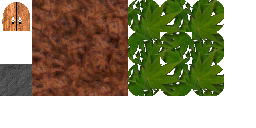
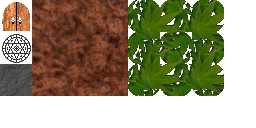
Update Room
・スタート地点の部屋には敵が入ってこないように修正。

Changed region(s): [[0.0, 0.25, 0.125, 0.5]]

diff --git a/content/asset/param/stage/Stage1.js b/content/asset/param/stage/Stage1.js
@@ -30,6 +30,8 @@ function Stage1(stageno) {
     var cmap = [];
     this.colmap = cmap;
 
+    this.startroom_id; 
+
     //rlistで各部屋にID付与
     rlist = roomDivision(rlist);
 
@@ -313,18 +315,41 @@ function Stage1(stageno) {
         let room_status = roomSizeCheck(rlist);
         let room = room_status.pos;
 
+        let sid; //startroom_id; 
+
         for (let i in room){//rlist,clist
             //天井
+            let x = (room[i].min.x - 1) * BLOCK_W;
+            let y = (room[i].min.y - 1) * BLOCK_H;
+            let wdt = (room[i].max.x - room[i].min.x + 2) * BLOCK_W;
+            let hgt = (room[i].max.y - room[i].min.y + 2) * BLOCK_H;
+
+
             w = [1,
-                (room[i].min.x - 1) * BLOCK_W -32, //rlist,clist
-                (room[i].min.y - 1) * BLOCK_H -32, //rlist,clist
-                (room[i].max.x - room[i].min.x + 2) * BLOCK_W + 96 + 32 + 32,
-                (room[i].max.y - room[i].min.y + 2) * BLOCK_H + 96 + 32 + 32,
+                x -32, //rlist,clist
+                y -32, //rlist,clist
+                wdt + 96 +32 +32,
+                hgt + 96 +32 +32,
                 true,//HitCheck有
                 3, //ceiling(FG)
                 true
              ];
+
              mc.push(w);
+
+             if (i == room_status.min) {
+
+                w = [14, //魔法陣画像
+                    x + (wdt/2)+32, y + (hgt/2)+32, 64, 64, false,//HitCheck有
+                    0, //(BG)
+                    true //visibility
+                 ];
+
+                sid = mc.length - 1;
+                //console.log("r:"+sid);
+
+                mc.push(w);
+             }
         }
 
         var r = Math.floor(rnd.next() * rlist.length)
@@ -365,7 +390,9 @@ function Stage1(stageno) {
         }
         for (let i in map_cp){map_cp[i].index = i;}
 
+        this.startroom_id = sid;
         this.colmap = cmap;
+
         return map_cp;
     }
 
@@ -554,6 +581,7 @@ function Stage1(stageno) {
     	[11, 256 - 96, 160 - 128, 31, 31], //11,160,32 壁5
     	[12, 96 - 96, 192 - 128, 31, 31], //12,0,64 床(壁際)
         [13,  0, 0, 32, 32], //13, 0, 0 Door
+        [14,  0, 32, 32, 32], //14, 0, 32 魔法陣
         ];
 
         var bg_ptn = []; // BGパターン

diff --git a/content/proc/control/gObjCntl.js b/content/proc/control/gObjCntl.js
@@ -496,7 +496,13 @@
                                 //alert("c");
                             }
                             if ((o.type == 2)||(o.type == 3)) {//　obj.type　が　敵/敵弾
-                                bupCol = false;//部屋内だと衝突解除
+                                
+                                if (mapsc.startroom_id() == w.index){ //開始部屋に入れない処理
+                                    bupCol  = o.mapCollision;
+                                    bupColX = o.mapColX;
+                                    bupColY = o.mapColY;
+                                    //console.log("rc"+w.index + ":" + mapsc.startroom_id());
+                                } 
                             }
 
                             o.mapCollision = bupCol;// || o.mapCollision;

diff --git a/content/proc/control/mapSceCntl.js b/content/proc/control/mapSceCntl.js
@@ -34,7 +34,9 @@ function mapSceControl(){
 	var stage_ptn; //bgグラフィック分割用データ(bgのspdata)
 
 	var colmap;
-	this.cmap = function () { return colmap; };   //当たり判定用マップデータ[x,y]
+    let sid;
+	this.cmap = function () { return colmap; } //当たり判定用マップデータ[x,y]
+    this.startroom_id = function(){return sid; } //開始部屋のMapChipIndex
 
 	newdata(this.stage, this.keyuse);
 
@@ -57,6 +59,9 @@ function mapSceControl(){
 	    stage_ptn = stage_data.bgPtn();
 
 	    colmap = stage_data.colmap;
+        sid = stage_data.startroom_id;
+
+        //console.log(sid);
 	}
 
 	this.change = function (stage) {
